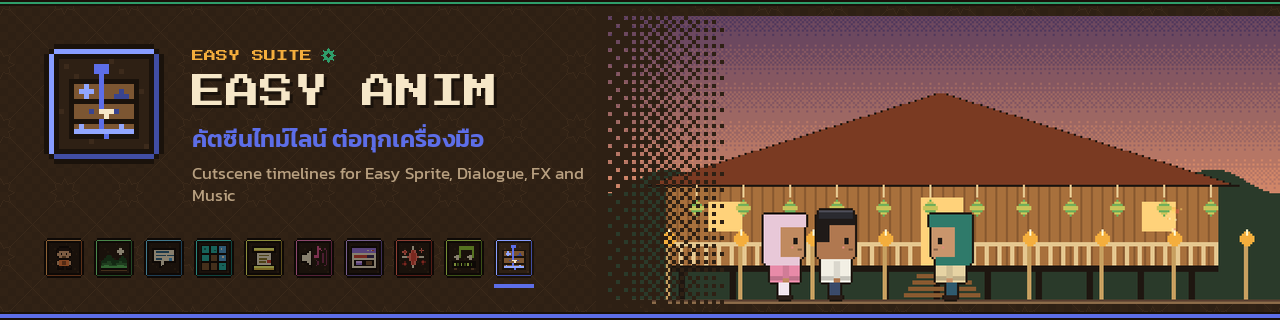
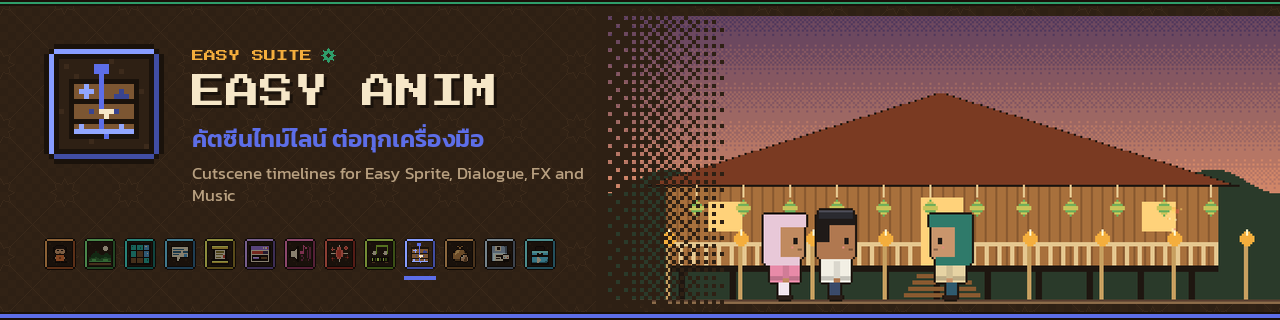
docs: Easy Suite is thirteen tools — 13-tool header strip, suite table and brand assets (adds Easy Kit)

Changed region(s): [[0.0312, 0.7188, 0.4375, 0.9062]]

diff --git a/README.md b/README.md
@@ -15,14 +15,17 @@
 <p align="center">
   <a href="https://github.com/Saladin2020/easysprite"><img src="docs/brand/logo-sprite-96.png" width="32" alt="Easy Sprite" title="Easy Sprite" /></a>
   <a href="https://github.com/Saladin2020/easyscene"><img src="docs/brand/logo-scene-96.png" width="32" alt="Easy Scene" title="Easy Scene" /></a>
-  <a href="https://github.com/Saladin2020/easydialogue"><img src="docs/brand/logo-dialogue-96.png" width="32" alt="Easy Dialogue" title="Easy Dialogue" /></a>
   <a href="https://github.com/Saladin2020/easytilemap"><img src="docs/brand/logo-tilemap-96.png" width="32" alt="Easy Tilemap" title="Easy Tilemap" /></a>
+  <a href="https://github.com/Saladin2020/easydialogue"><img src="docs/brand/logo-dialogue-96.png" width="32" alt="Easy Dialogue" title="Easy Dialogue" /></a>
   <a href="https://github.com/Saladin2020/easyquest"><img src="docs/brand/logo-quest-96.png" width="32" alt="Easy Quest" title="Easy Quest" /></a>
-  <a href="https://github.com/Saladin2020/easysfx"><img src="docs/brand/logo-sfx-96.png" width="32" alt="Easy SFX" title="Easy SFX" /></a>
   <a href="https://github.com/Saladin2020/easyui"><img src="docs/brand/logo-ui-96.png" width="32" alt="Easy UI" title="Easy UI" /></a>
+  <a href="https://github.com/Saladin2020/easysfx"><img src="docs/brand/logo-sfx-96.png" width="32" alt="Easy SFX" title="Easy SFX" /></a>
   <a href="https://github.com/Saladin2020/easyfx"><img src="docs/brand/logo-fx-96.png" width="32" alt="Easy FX" title="Easy FX" /></a>
   <a href="https://github.com/Saladin2020/easymusic"><img src="docs/brand/logo-music-96.png" width="32" alt="Easy Music" title="Easy Music" /></a>
   <a href="https://github.com/Saladin2020/easyanim"><img src="docs/brand/logo-anim-96.png" width="40" alt="Easy Anim" title="Easy Anim (this repo)" /></a>
+  <a href="https://github.com/Saladin2020/easyitems"><img src="docs/brand/logo-items-96.png" width="32" alt="Easy Items" title="Easy Items" /></a>
+  <a href="https://github.com/Saladin2020/easysave"><img src="docs/brand/logo-save-96.png" width="32" alt="Easy Save" title="Easy Save" /></a>
+  <a href="https://github.com/Saladin2020/easykit"><img src="docs/brand/logo-kit-96.png" width="32" alt="Easy Kit" title="Easy Kit" /></a>
 </p>
 <!-- easy-suite:header:end -->
 
@@ -186,29 +189,32 @@ npm run build:core                                            # re-bundle runtim
 
 On a box without a GPU run Godot with `GODOT_ARGS="--rendering-driver opengl3"` under `xvfb-run`.
 
+<!-- easy-suite:table:start -->
 ## Easy Suite
 
 <img src="docs/brand/logo-suite-96.png" width="48" align="right" alt="Easy Suite" />
 
-Ten small, local-first tools that share one look (teak, lantern gold, Kanit, 16/48px pixels), one
+Thirteen small, local-first tools that share one look (teak, lantern gold, Kanit, 16/48px pixels), one
 workflow (CLI · web editor · MCP server) and the same targets (**Godot 4.3+** and **PixiJS v8**).
-ชุดเครื่องมือทำเกมพิกเซลสไตล์ไทย ใช้ร่วมกันได้ทั้งชุด  
+ชุดเครื่องมือทำเกมพิกเซลสไตล์ไทย ใช้ร่วมกันได้ทั้งชุด · **Easy Kit** builds a whole playable game from the other twelve.  
 The samples share one multicultural southern Thai village: Buddhist temple, wooden kampung mosque and
 Chinese-Thai shrine on the same street. หมู่บ้านพหุวัฒนธรรม วัด มัสยิด ศาลเจ้า อยู่ร่วมกันในเมืองเดียว
 
-<!-- easy-suite:table:start -->
 | | Tool | What it does | Repo |
 |:-:|---|---|---|
 | <img src="docs/brand/logo-sprite-96.png" width="40" alt="" /> | [**Easy Sprite**](https://github.com/Saladin2020/easysprite) | Compose modular 48px chibi characters (top-down + side-view) and export sheets. | [`easysprite`](https://github.com/Saladin2020/easysprite) |
 | <img src="docs/brand/logo-scene-96.png" width="40" alt="" /> | [**Easy Scene**](https://github.com/Saladin2020/easyscene) | Side-view levels: parallax layers, 16px autotiles, Thai town props. | [`easyscene`](https://github.com/Saladin2020/easyscene) |
-| <img src="docs/brand/logo-dialogue-96.png" width="40" alt="" /> | [**Easy Dialogue**](https://github.com/Saladin2020/easydialogue) | Branching `.ezd` dialogue with Thai-safe text, portraits and choices. | [`easydialogue`](https://github.com/Saladin2020/easydialogue) |
 | <img src="docs/brand/logo-tilemap-96.png" width="40" alt="" /> | [**Easy Tilemap**](https://github.com/Saladin2020/easytilemap) | Top-down 16px maps: blob-47 autotiles, objects, collision, spawns. | [`easytilemap`](https://github.com/Saladin2020/easytilemap) |
+| <img src="docs/brand/logo-dialogue-96.png" width="40" alt="" /> | [**Easy Dialogue**](https://github.com/Saladin2020/easydialogue) | Branching `.ezd` dialogue with Thai-safe text, portraits and choices. | [`easydialogue`](https://github.com/Saladin2020/easydialogue) |
 | <img src="docs/brand/logo-quest-96.png" width="40" alt="" /> | [**Easy Quest**](https://github.com/Saladin2020/easyquest) | Text `.ezq` quests: steps, flags, items, rewards, linked to dialogue. | [`easyquest`](https://github.com/Saladin2020/easyquest) |
-| <img src="docs/brand/logo-sfx-96.png" width="40" alt="" /> | [**Easy SFX**](https://github.com/Saladin2020/easysfx) | Deterministic 8-bit SFX and 4-channel chiptune loops, typing blips. | [`easysfx`](https://github.com/Saladin2020/easysfx) |
 | <img src="docs/brand/logo-ui-96.png" width="40" alt="" /> | [**Easy UI**](https://github.com/Saladin2020/easyui) | Nine-slice pixel UI kit: panels, bars, inventory, menus, 30 icons. | [`easyui`](https://github.com/Saladin2020/easyui) |
+| <img src="docs/brand/logo-sfx-96.png" width="40" alt="" /> | [**Easy SFX**](https://github.com/Saladin2020/easysfx) | Deterministic 8-bit SFX and 4-channel chiptune loops, typing blips. | [`easysfx`](https://github.com/Saladin2020/easysfx) |
 | <img src="docs/brand/logo-fx-96.png" width="40" alt="" /> | [**Easy FX**](https://github.com/Saladin2020/easyfx) | Pixel particles: sparks, fire, rain, lanterns, Raya pelita; sheets + Godot particles. | [`easyfx`](https://github.com/Saladin2020/easyfx) |
 | <img src="docs/brand/logo-music-96.png" width="40" alt="" /> | [**Easy Music**](https://github.com/Saladin2020/easymusic) | Seeded Thai loop music: ranat, khong wong, saw, khim, pi, kompang; seamless WAV/OGG loops. | [`easymusic`](https://github.com/Saladin2020/easymusic) |
 | <img src="docs/brand/logo-anim-96.png" width="40" alt="" /> | **Easy Anim** ← you are here | Cutscene timelines: actors, camera, dialogue, FX and music cues; Godot + Pixi runners. | [`easyanim`](https://github.com/Saladin2020/easyanim) |
+| <img src="docs/brand/logo-items-96.png" width="40" alt="" /> | [**Easy Items**](https://github.com/Saladin2020/easyitems) | Item database, shops, inventory, loot tables and crafting; 44 starter items with pixel icons. | [`easyitems`](https://github.com/Saladin2020/easyitems) |
+| <img src="docs/brand/logo-save-96.png" width="40" alt="" /> | [**Easy Save**](https://github.com/Saladin2020/easysave) | Versioned save slots with migrations and checksums; Thai / English / Malay string tables. | [`easysave`](https://github.com/Saladin2020/easysave) |
+| <img src="docs/brand/logo-kit-96.png" width="40" alt="" /> | [**Easy Kit**](https://github.com/Saladin2020/easykit) | One command drives all 12 tools into a playable Godot 4.3+ and PixiJS game; unified MCP server and `doctor`. | [`easykit`](https://github.com/Saladin2020/easykit) |
 
 ### Works with
 

diff --git a/docs/brand/README.md b/docs/brand/README.md
@@ -1,7 +1,7 @@
 # Easy Suite brand assets
 
 Generated by the Easy Suite brand script (pixel logos, banners, social previews). Same frame, palette and
-fonts across all ten tools; only the icon and accent colour change. Easy Anim uses indigo `#5d6ee8` and an icon of
+fonts across all thirteen tools; only the icon and accent colour change. Easy Anim uses indigo `#5d6ee8` and an icon of
 storyboard panels crossed by a timeline playhead; its banner and social art are an Easy Anim render of
 `raya_open_house` with the built-in placeholder characters (no Easy Sprite / LPC art).
 
